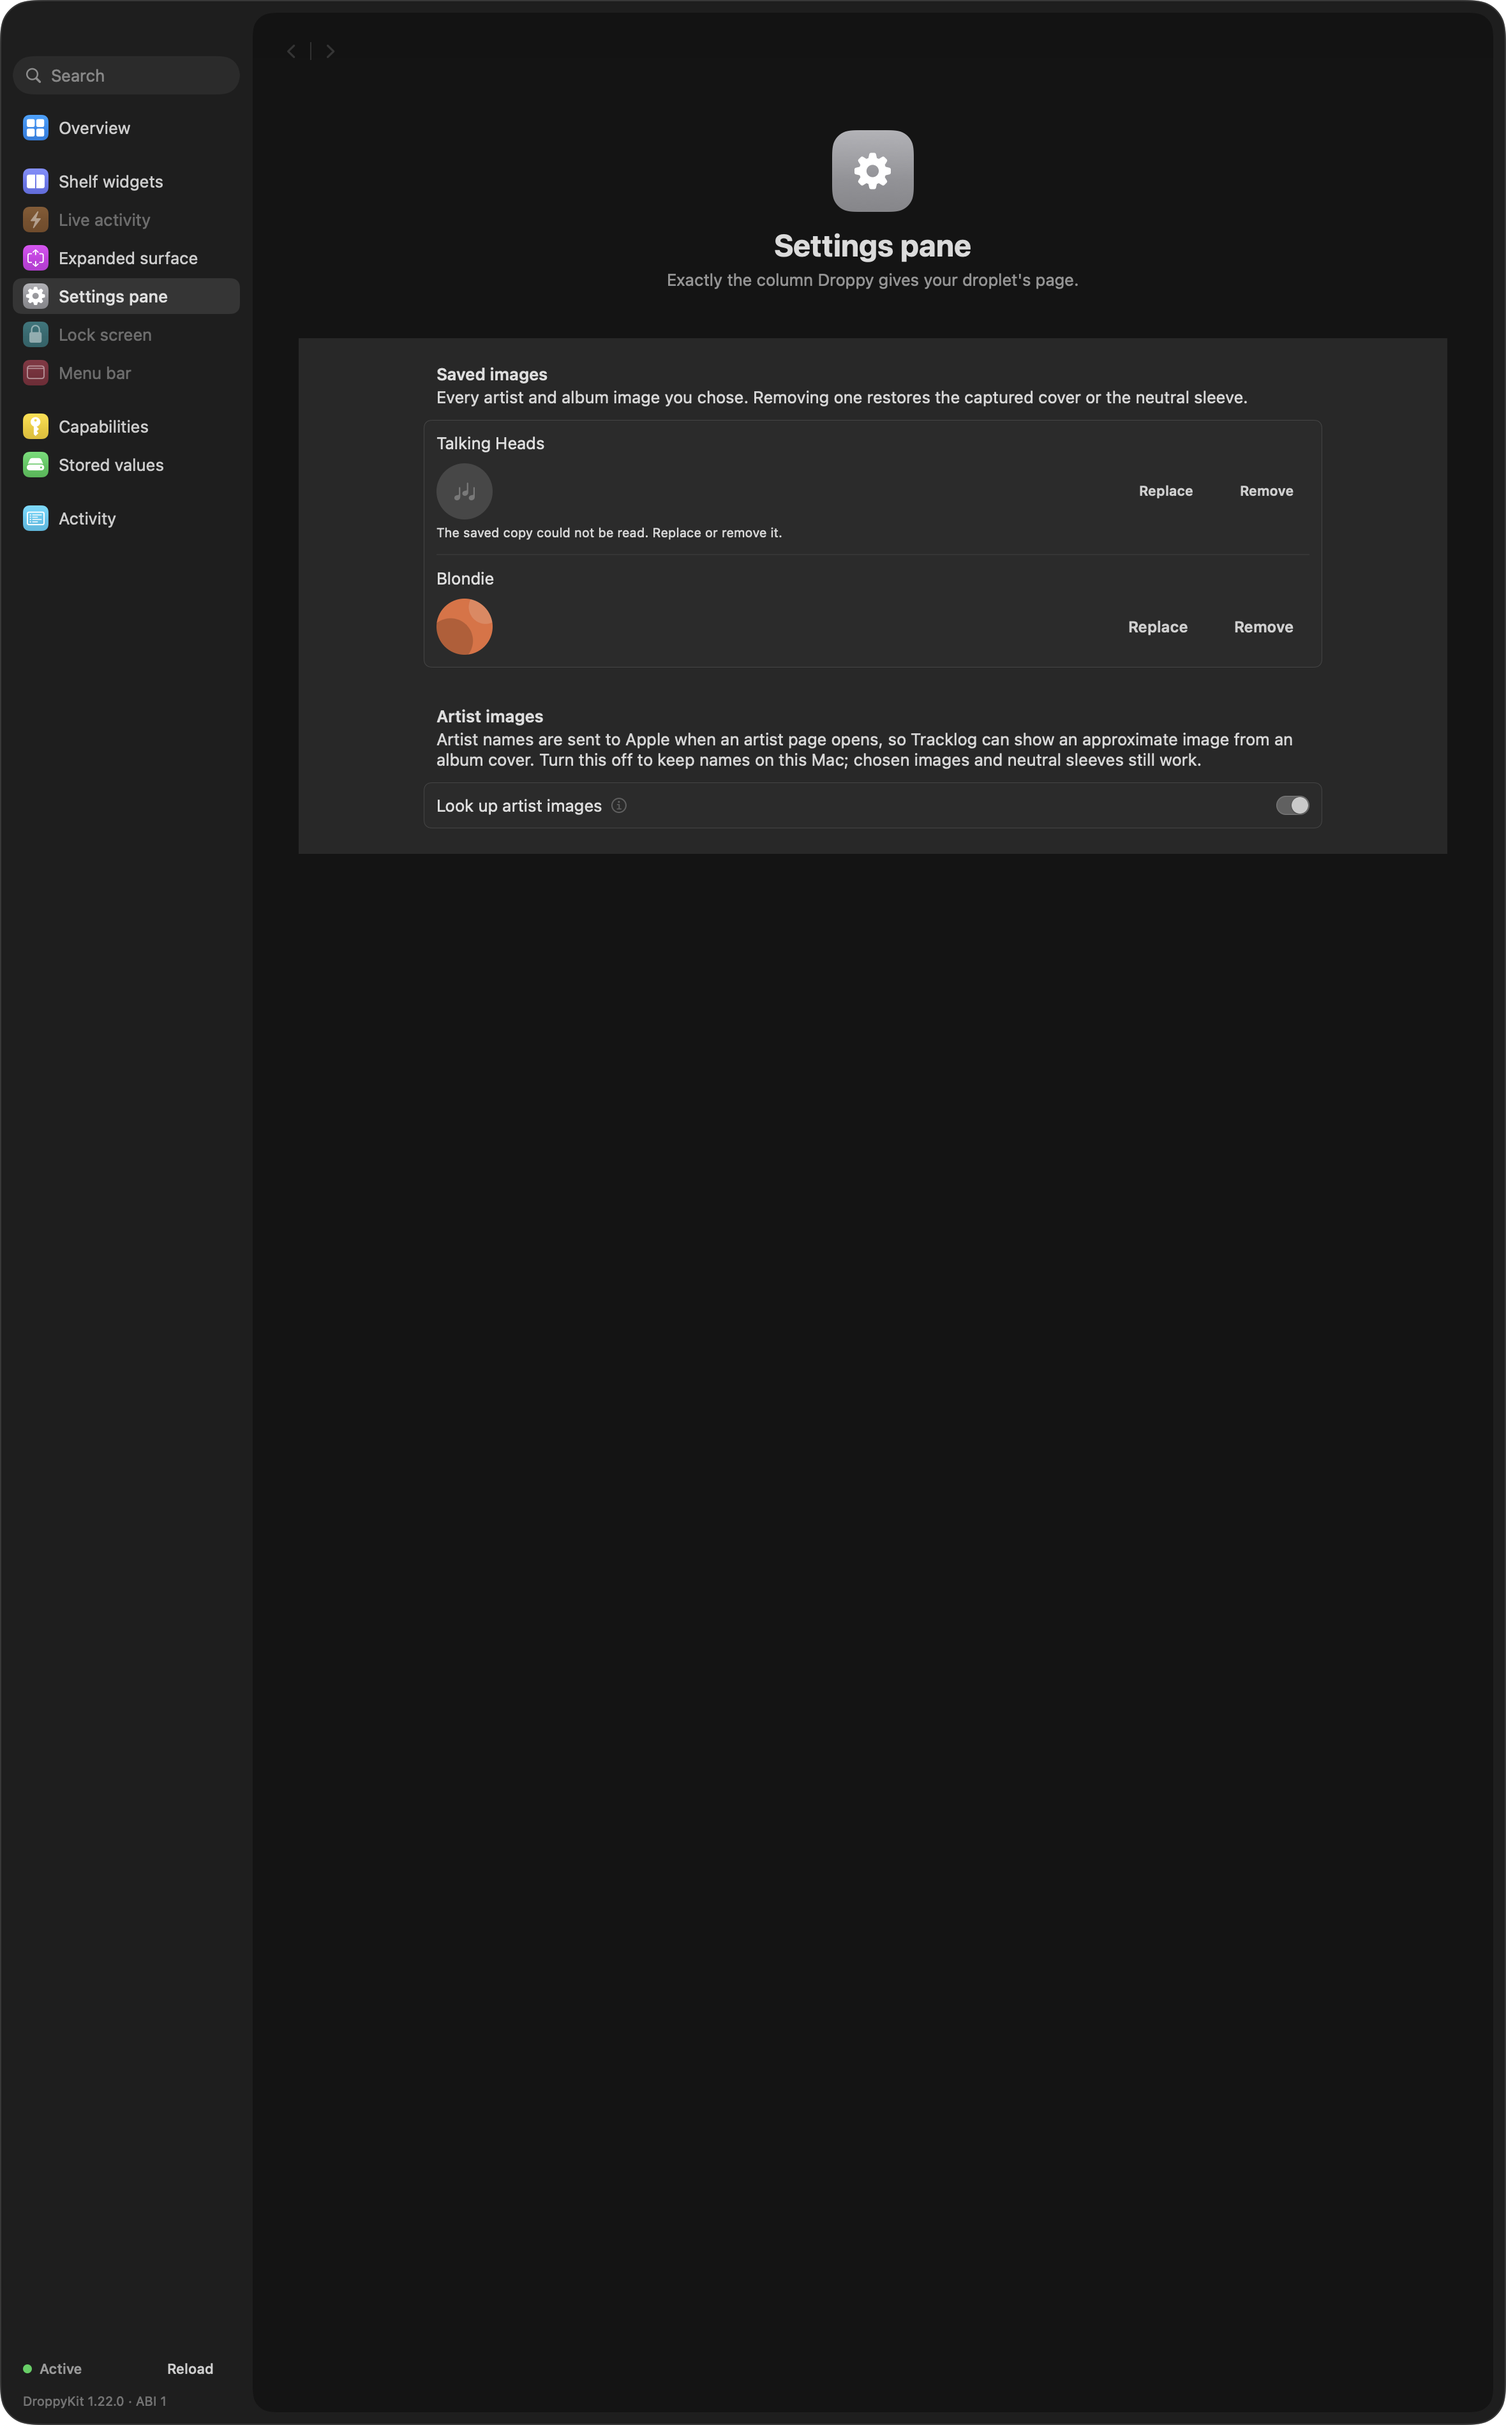
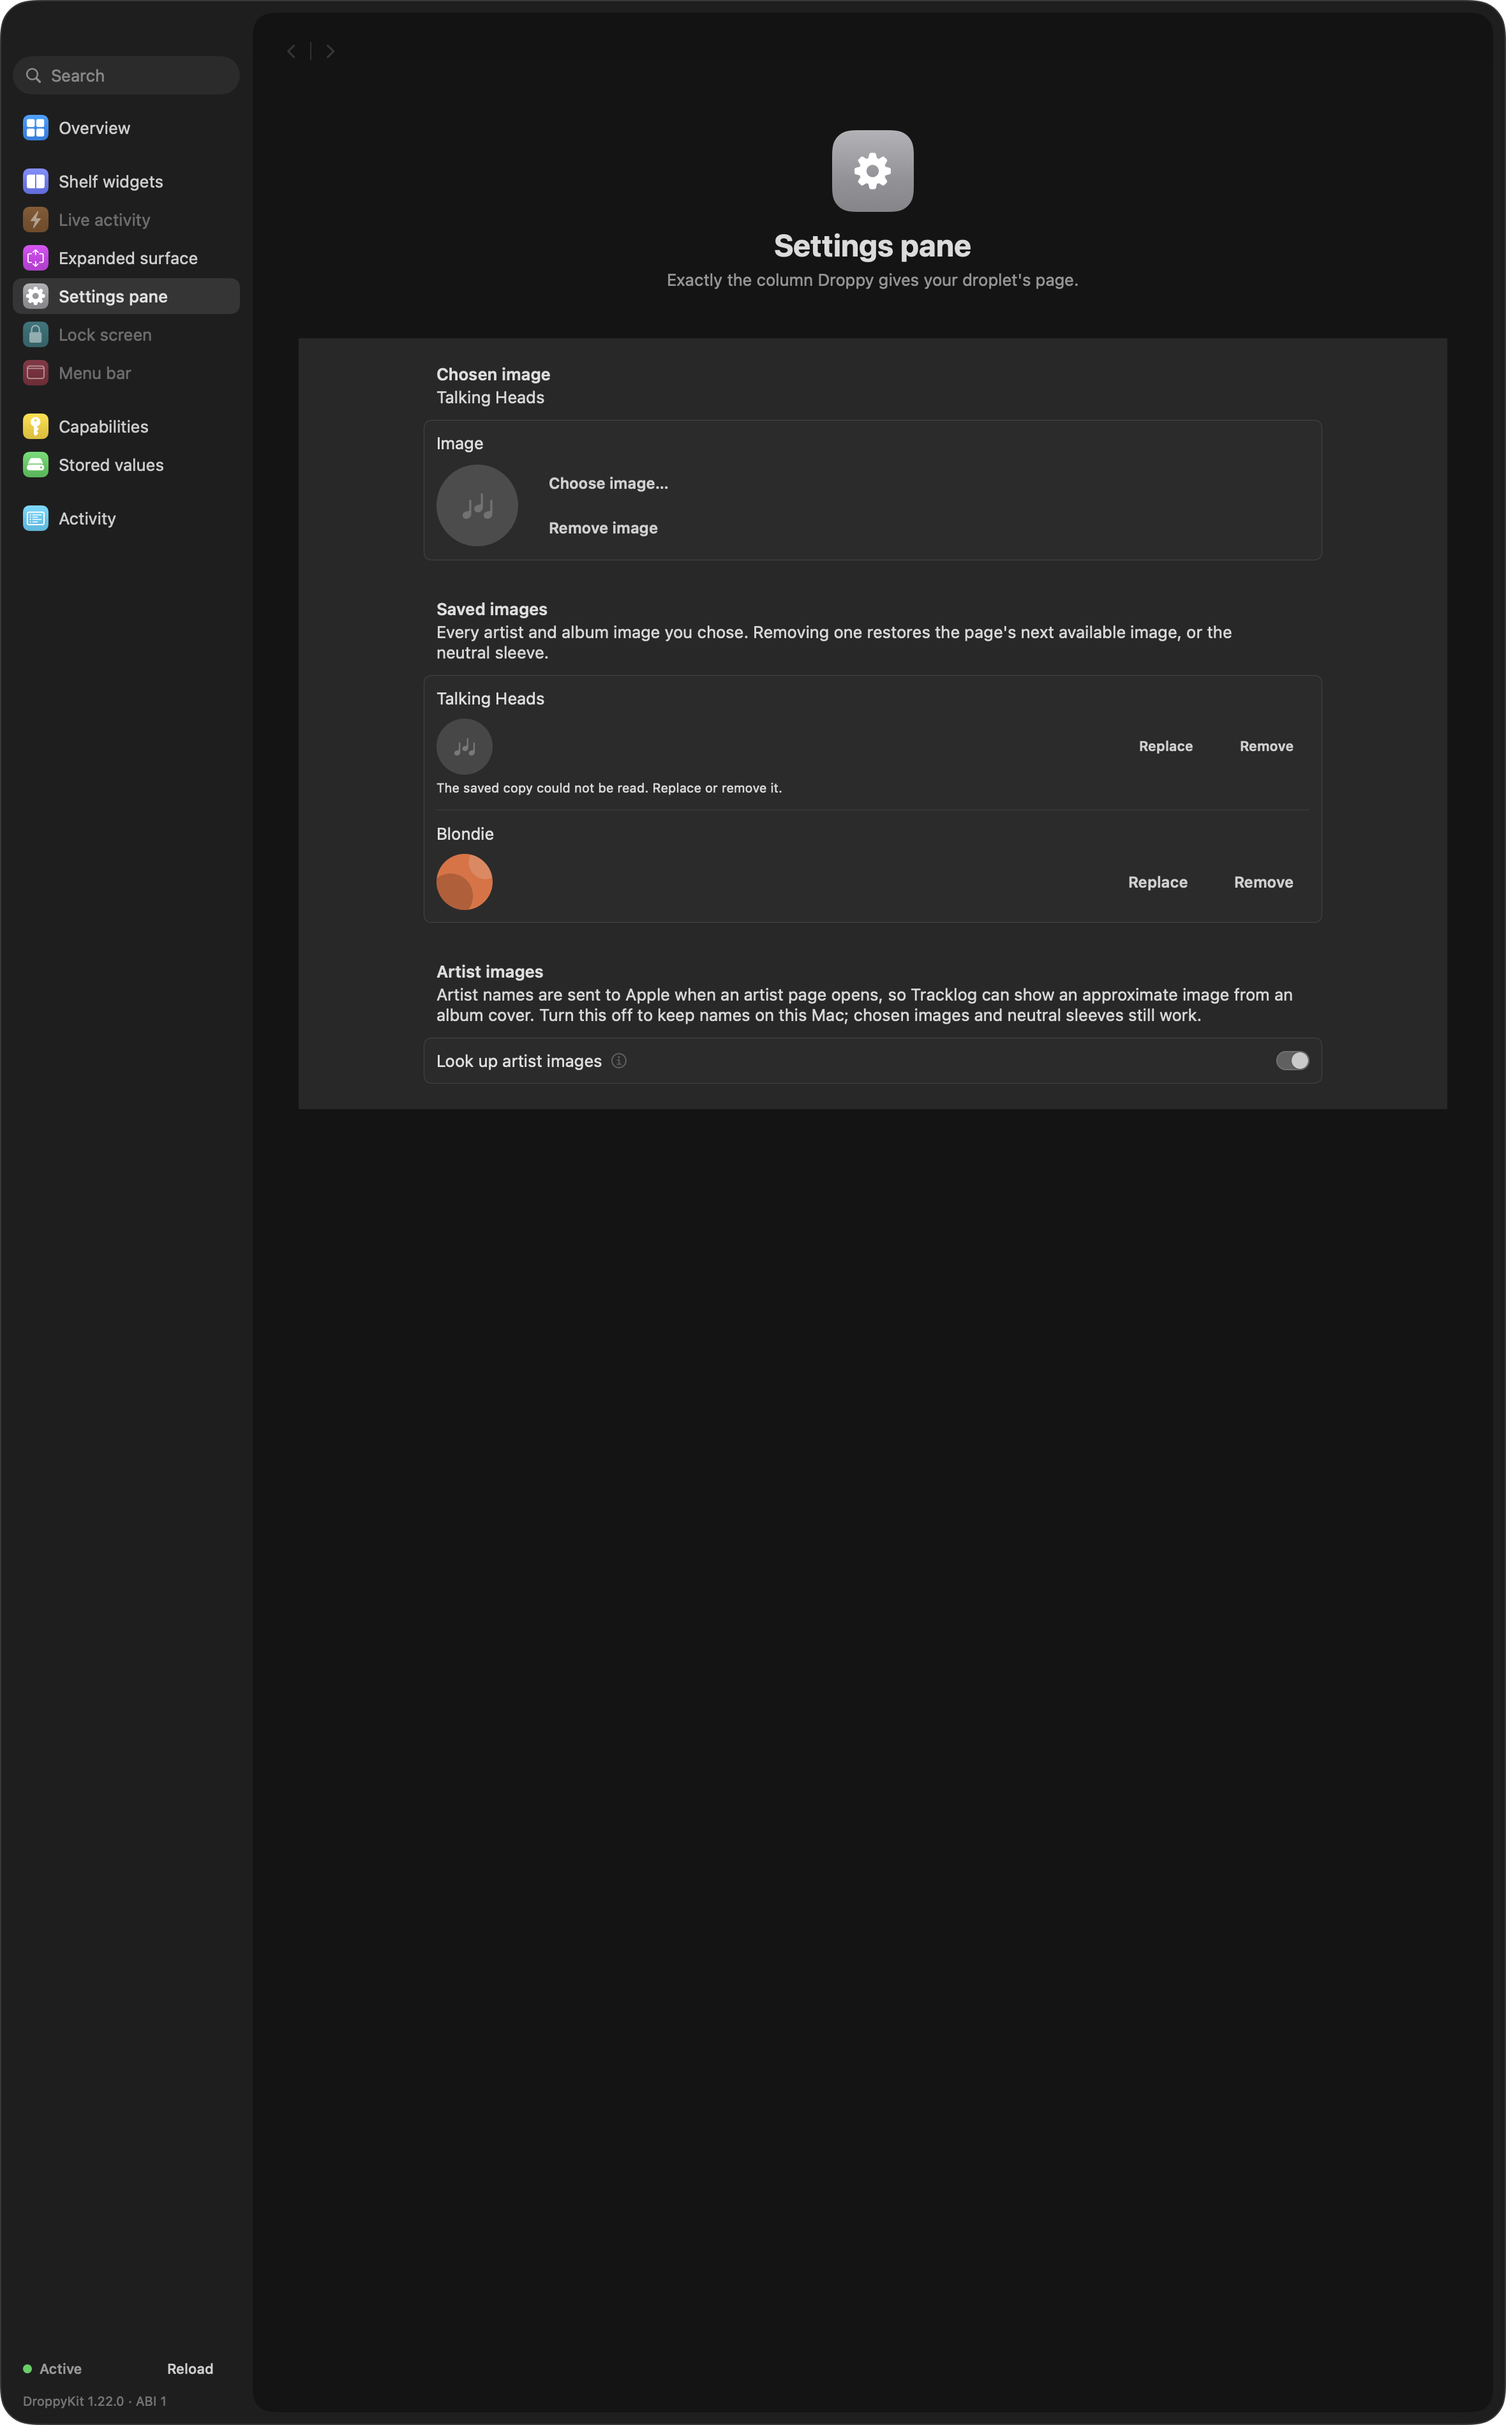
docs: record the review comment fixes and gate receipt

diff --git a/docs/reports/issue-86-entity-details-image-overrides.md b/docs/reports/issue-86-entity-details-image-overrides.md
@@ -2,8 +2,8 @@
 
 - Base: started from `10e20840c8f71913cb8c492cb779cdb23cf36aac` (`feat: build loved browsing (#87) (#115)`).
 - Branch: `feat/entity-details-image-overrides-86`.
-- Code head: `19768f7014e5ce1b900c3b4bae929e9a3c4ca3ac`.
-- State: implementation, composition tests, harness fixtures, glossary and checklist updates, the review-round-2 fixes for F12, F13 and F14, the F15 picker-entity fix, and the live F1, F2, F11, F12, F14 and F15 checks. The receipt-backed gate passed at `dfd72e5` and covers code head `19768f7`; the later commits are documentation and evidence only.
+- Code head: `786d5e7e462b6737b1d20aebcdf3f62efc0f980f`.
+- State: implementation, composition tests, harness fixtures, glossary and checklist updates, the review-round-2 fixes for F12, F13 and F14, the F15 picker-entity fix, the review-round-3 PR comment fixes, and the live F1, F2, F11, F12, F14 and F15 checks. The receipt-backed gate passed at `786d5e7`; the later commits are documentation and evidence only.
 - Scope: ticket 10 of the approved breakdown. This report does not close #76 and makes no Store or milestone-complete claim.
 
 ## Contract
@@ -93,7 +93,7 @@ Real temporary SQLite (reopened where persistence matters), `FakeClock`, the rea
 | settings export tests | Old export defaults the switch on; false round-trips; overrides absent. |
 | updated track-history tests | Track history now runs through the one entity surface. |
 
-Full suite at the `dfd72e5` gate: **793 tests in 106 suites**, exit `0` (51 media tests in 7 suites). The F15 focused run in the two entity suites is 53 tests, exit `0`.
+Full suite at the `786d5e7` gate: **793 tests in 106 suites**, exit `0` (51 media tests in 7 suites). The focused entity suites are 53 tests, exit `0`.
 
 ## Gate
 
@@ -103,11 +103,11 @@ Command:
 /Users/ranokay/.agents/tools/run gate_run -- mise run gate
 ```
 
-- Result and receipt: exit `0`, frozen gate `true`, clean before and after, at head `dfd72e5d8081e6af7d5fef27cbfcb732b6bf173b`. The gate covers code head `19768f7014e5ce1b900c3b4bae929e9a3c4ca3ac`; `dfd72e5` is the documentation and evidence commit on top.
-  - Receipt: `/Users/ranokay/.local/state/agent-tools/gates/20261104T234837Z-1ffe2a829cc7.json`
-  - Log: `/Users/ranokay/.local/state/agent-tools/gates/20261104T234837Z-1ffe2a829cc7.log`
-  - Duration: 1610.6 seconds.
-  - `git_before` and `git_after` both report head `dfd72e5…`, empty porcelain status and the same tracked-content hash.
+- Result and receipt: exit `0`, frozen gate `true`, clean before and after, at head `786d5e7e462b6737b1d20aebcdf3f62efc0f980f`. The later commits are documentation and evidence only.
+  - Receipt: `/Users/ranokay/.local/state/agent-tools/gates/20261105T003222Z-8208178c8394.json`
+  - Log: `/Users/ranokay/.local/state/agent-tools/gates/20261105T003222Z-8208178c8394.log`
+  - Duration: 1548.7 seconds.
+  - `git_before` and `git_after` both report head `786d5e7…`, empty porcelain status and the same tracked-content hash.
 - `hk check --all`: SwiftFormat, SwiftLint and jactionlint clean; 0 violations in 336 files.
 - `swift test --package-path Tests`: 793 tests in 106 suites; 51 media tests in 7 suites.
 - `droppykit build`: universal, x86_64 + arm64, `kit.minAPI` 1.19.0 covers every call.
@@ -134,7 +134,7 @@ All images are in `docs/reports/issue-86/`.
 | Corrupt override | `corrupt-override` | Neutral sleeve, unreadable-copy sentence and `Remove`; `details-corrupt-override.png` |
 | Track delete confirmation | `track-delete` | Delete bar on the track page with Cancel/Delete; `details-track-delete.png` |
 | Long metadata | `long-names` | Long artist and track names stay inside the row and truncate/wrap without replacing the count; `details-long-names.png` |
-| Images settings | `corrupt-override` + settings page `images` | Chosen image, Choose image/Remove image, saved Blondie row with Remove, lookup switch and privacy note; `images-settings.png` |
+| Images settings | `corrupt-override` + settings page `images` | Pending `Chosen image` for Talking Heads with Choose image/Remove image, the unreadable Talking Heads saved row with Replace/Remove, the valid Blondie row, lookup switch and privacy note; `images-settings.png` |
 | Chart row override | `override` + Charts | Blondie's chart row uses the orange override; `charts-override.png` |
 | Increased contrast | `artist` + contrast override | Detail separators and borders strengthen; `details-contrast.png` |
 | History jump survives a detail | `history-jump-back` + `TRACKLOG_HARNESS_HISTORY=jump` | Back reveals the same `Showing from 3 Nov 2026 at 21:18` window; `history-jump-back.png` |
@@ -202,3 +202,11 @@ All eleven round-1 findings were addressed in `07a43cb`. Round 2 found three mor
 - **F13 — removing an album override restores the next source.** `removeOverride` restarts the album image path, and `maybeStartServiceImage` no longer drops a copy it already downloaded when precedence is not ready; the released page returns to `.service` without a second request, or fetches it when the override was up when the facts arrived. `removingAnAlbumOverrideRestoresTheServiceImage` asserts `.service` with exactly 1 request total; `removingAnAlbumOverrideStartsTheServiceImageThatArrivedUnderIt` asserts 0 before Remove and exactly 1 after. The Images copy now says "the page's next available image, or the neutral sleeve" instead of naming the captured cover only.
 - **F14 — the chosen image clears on the way out.** `finishImagesSettingsPage` is now called by the Images page's `onDisappear` (the unused `goBackInSettings` call is gone), a successful save clears only its own draft, and an explicit save copies the entity before the first suspension. `aSuccessfulSaveClearsItsOwnDraft`, `anExplicitSaveSurvivesTheDraftBeingClearedFirst`, `anExplicitSaveTargetsItsOwnEntityAndLeavesAnotherDraft` and `anExplicitSaveSurvivesTheDraftChangingDuringTheStoreWrite` cover the draft paths, the last with a held store write. Live: after the F1 save the section cleared on the spot; opening `Change image…` again, leaving the Settings pane and returning showed no `Chosen image`, while the saved list stayed.
 - **F15 — the picker saves to the entity it started with.** `chooseImageOverrideFile` now takes the draft and captures it before `runModal`, then passes that explicit entity through the off-main read to `saveImageOverride`. The page leaving during the read no longer makes the save throw `noSelection`, and Replace on another row no longer redirects the first file. `saveOverride` clears the draft only when it still names the saved entity, so the other entity's draft survives, and a failed save sets `state.imageOverrideError` even when the page has gone, where the next visit shows it. `saveSelectedImageOverride` and `selectOverrideImage` are removed and their tests moved to the explicit API. Live recheck on `19768f7`: `Change image…` → real panel → `Pictures` → `tracklog-issue86-panel-choice.png` → saved list `Blondie` with Replace/Remove; the reopened artist detail showed `Remove` and the chosen image (`live-f1-detail-override.png`, 4,533 sampled pixels). The panel's modal stall remains the runModal cause recorded in the live notes.
+
+### Review round 3 (PR comments)
+
+Three CodeRabbit "Minor · Functional" comments were verified against the source and fixed in `786d5e7`.
+
+- **The Images settings shot really starts a draft.** `HarnessDemo+Detail` began the pending draft only for the `override` fixture, while the gate's `images-settings` shot uses `corrupt-override`. The guard now includes both, so the shot shows `Chosen image` / `Talking Heads` with `Choose image…` and `Remove image` beside the unreadable Talking Heads row and the valid Blondie row. `images-settings.png` was refreshed from the gate run.
+- **A track page's Open artist/album pushes instead of replacing the stack.** `openEntityDetailFromHistory` called `openEntityDetail`, which replaces the stack with the new request, so Back from an artist or album opened on a track page closed the detail instead of returning to the track. It now pushes when a detail is already open and opens fresh only from the History feed. Live: the track page's row menu `Open artist` opened Blondie, and Back returned to the same track page (`Blondie — Parallel Lines`, `Duration`).
+- **Loved rows describe the track and only offer real actions.** The row hint is always `Opens this track's page`; the unlove-unavailable reason stays in `actionReasonBar` instead of replacing the hint, and the unused `unavailableReason` property is gone. The `Open artist` and `Open album` accessibility actions are exposed only when the row has that field, matching the context menu.
